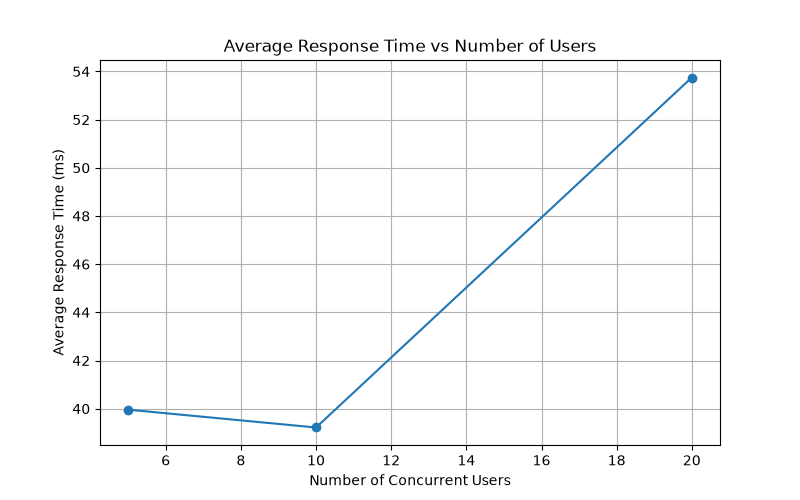
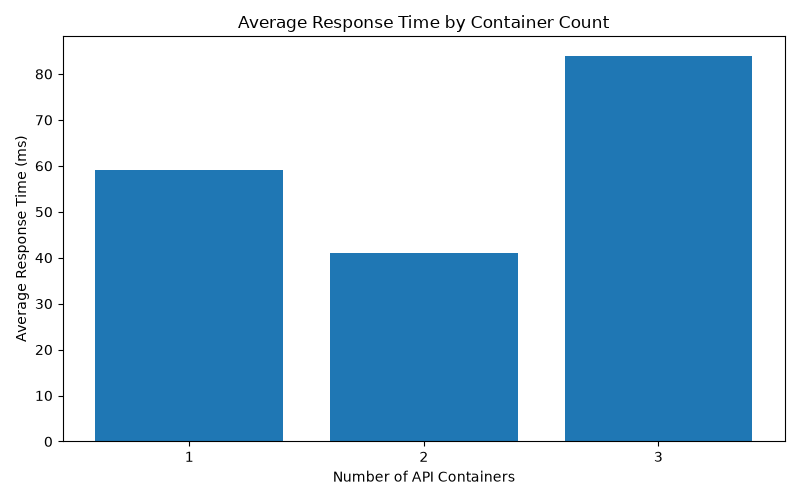
Remove Git backup files from project

diff --git a/README.md b/README.md
@@ -1,1 +1,53 @@
-# GeoVision-ML
+## Load Testing and Performance Evaluation
+
+### Testing Environment
+
+Load testing was performed using **Locust** to simulate multiple users accessing the GeoVision ML API.
+
+The API was deployed using Docker Compose, with Nginx acting as a reverse proxy and distributing requests across API containers.
+
+The experiments used the following configuration:
+
+- Load testing tool: Locust
+- Concurrent users: 10
+- User spawn rate: 2 users per second
+- Test duration: 2 minutes
+- API endpoints: `/health` and `/predict`
+- Container configurations: 1, 2, and 3 API containers
+
+### Performance Results
+
+| Metric | 1 Container | 2 Containers | 3 Containers |
+|---|---:|---:|---:|
+| Total Requests | 572 | 576 | 574 |
+| Failed Requests | 0 | 0 | 0 |
+| Average Response Time | 59 ms | 41 ms | 84 ms |
+| P95 Response Time | 170 ms | 110 ms | 230 ms |
+| Throughput | 4.78 req/s | 4.82 req/s | 4.81 req/s |
+
+### Performance Analysis
+
+All three configurations completed their tests without failed requests.
+
+The two-container configuration achieved the lowest average response time of 41 ms and the lowest P95 response time of 110 ms.
+
+Increasing the number of API containers to three did not improve performance in this experiment. The average response time increased to 84 ms.
+
+Throughput remained almost unchanged across all three configurations, at approximately 4.8 requests per second.
+
+These results suggest that increasing the number of containers does not automatically improve performance. Available CPU and memory resources, model inference workloads, and container overhead can influence the results.
+
+### Conclusion
+
+The two-container configuration provided the best response-time results in the initial experiments. Further repeated testing is necessary to determine whether this improvement is consistent.
+
+### Test Evidence
+
+Performance graphs and Locust output files are stored in:
+
+`results/load_testing/`
+
+- `replica_comparison.csv`
+- `average_response_time.png`
+- `p95_response_time.png`
+- `throughput.png`
